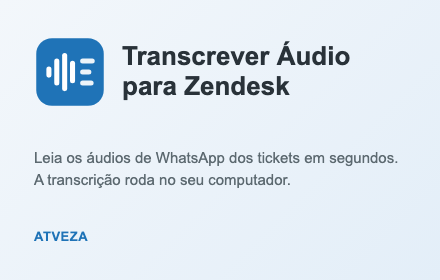
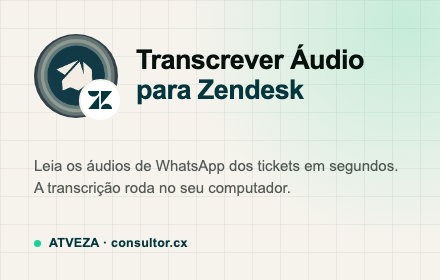
feat(brand): ATVEZA mark with Zendesk badge; consultor.cx light palette and privacy page
Requested by Athos:
- Icons from the consultor.cx footer logo (ATVEZA circular mark), with
  the unchanged Zendesk 'Z' badge in the bottom-right corner from 32 px
  up (unreadable at 16 px, so the toolbar icon shows only the mark).
- Promo tile in the consultor.cx light palette (#F6F3ED background,
  #03363D primary, #18D394 accent, faint grid and green glow).
- scripts/render-brand.mjs renders icons and promo tile from
  assets/brand/; NO_ZENDESK=1 renders the fallback without the badge.
- Privacy policy published on consultor.cx/politica-de-privacidade
  (same group); general contact contato@consultorcx.com.br.
- Store listing records the known trademark risk and the fallback.

diff --git a/docs/piloto-ska.md b/docs/piloto-ska.md
@@ -13,7 +13,7 @@
 | 3   | Confirmar que a rede libera `huggingface.co` e `*.hf.co`                                                                    | TI da SKA    | Abrir https://huggingface.co no navegador do agente |
 | 4   | Juntar os 20 áudios de teste com as transcrições corretas (ver abaixo)                                                      | SKA          | Com autorização                                     |
 | 5   | Aprovar o texto para o DPO                                                                                                  | DPO da SKA   | `docs/lgpd-dpo.md`                                  |
-| 6   | Publicar a seção da extensão em atveza.com/privacy/                                                                         | ATVEZA       | `docs/privacidade-secao-site.md`                    |
+| 6   | Publicar a seção da extensão em consultor.cx/politica-de-privacidade                                                        | ATVEZA       | `docs/privacidade-secao-site.md`                    |
 | 7   | Publicar na Chrome Web Store como **privada**, com os 2 agentes como testadores confiáveis                                  | ATVEZA       | `docs/chrome-web-store.md`                          |
 | 8   | Instalar nos 2 agentes e fazer o treinamento de 15 min                                                                      | ATVEZA       | Seção "Guia rápido do agente"                       |
 

diff --git a/docs/politica-de-privacidade.md b/docs/politica-de-privacidade.md
@@ -2,7 +2,7 @@
 
 Última atualização: 19 de novembro de 2026 · Responsável: ATVEZA SERVICOS EM TECNOLOGIA LTDA (ATVEZA Technology), CNPJ 48.761.773/0001-17
 
-Esta política vale para a extensão do Chrome "ATVEZA · Transcrever Áudio para Zendesk" (a "extensão"). Publicação: como uma seção da página https://atveza.com/privacy/, no mesmo formato da seção do "WhatsApp Proativo para Zendesk" (texto pronto em `docs/privacidade-secao-site.md`).
+Esta política vale para a extensão do Chrome "ATVEZA · Transcrever Áudio para Zendesk" (a "extensão"). Publicação: como uma seção da página https://consultor.cx/politica-de-privacidade (consultor.cx, grupo ATVEZA), no mesmo formato da seção do "WhatsApp Proativo para Zendesk" (texto pronto em `docs/privacidade-secao-site.md`).
 
 ## Resumo
 
@@ -43,4 +43,4 @@ O texto é gerado automaticamente e pode conter erros. A caixa de transcrição 
 
 ## Contato
 
-Dúvidas sobre a extensão ou sobre esta política: athos@atveza.com. Pedidos sobre seus dados pessoais em geral: contato@atveza.com. Para dados dos atendimentos, procure também a empresa responsável pela conta Zendesk.
+Dúvidas sobre a extensão ou sobre esta política: athos@atveza.com. Pedidos sobre seus dados pessoais em geral: contato@consultorcx.com.br, com o assunto "Privacidade e Dados". Para dados dos atendimentos, procure também a empresa responsável pela conta Zendesk.

diff --git a/docs/publicar-passo-a-passo.md b/docs/publicar-passo-a-passo.md
@@ -50,7 +50,7 @@ Itens → **+ Novo item** → enviar `zendesk-whatsapp-audio-transcriber-ska-0.2
 - **Ícone da loja:** `icone-128.png`
 - **Capturas de tela:** `captura-1-transcricao.png` e `captura-2-menu.png`
 - **Bloco promocional pequeno:** `promo-440x280.png`
-- **Site oficial:** `https://atveza.com`
+- **Site oficial:** `https://consultor.cx`
 - **Suporte:** `mailto:athos@atveza.com`
 - Salvar rascunho.
 
@@ -88,7 +88,7 @@ Itens → **+ Novo item** → enviar `zendesk-whatsapp-audio-transcriber-ska-0.2
 - **URL da política de privacidade:**
 
   ```text
-  https://atveza.com/privacy/
+  https://consultor.cx/politica-de-privacidade
   ```
 
   Antes de enviar, publicar nessa página a seção de `docs/privacidade-secao-site.md`.

diff --git a/docs/privacidade-secao-site.md b/docs/privacidade-secao-site.md
@@ -1,6 +1,6 @@
-# Seção para atveza.com/privacy/
+# Seção para consultor.cx/politica-de-privacidade
 
-Texto pronto para acrescentar à página https://atveza.com/privacy/, depois da seção "WhatsApp Proativo para Zendesk" e no mesmo formato. A política completa da extensão está em `docs/politica-de-privacidade.md`.
+Texto pronto para acrescentar à página https://consultor.cx/politica-de-privacidade (consultor.cx faz parte do grupo ATVEZA), depois da seção "WhatsApp Proativo para Zendesk" e no mesmo formato. Se a mesma seção também for publicada em https://atveza.com/privacy/, manter as duas iguais. A política completa da extensão está em `docs/politica-de-privacidade.md`.
 
 ---
 
